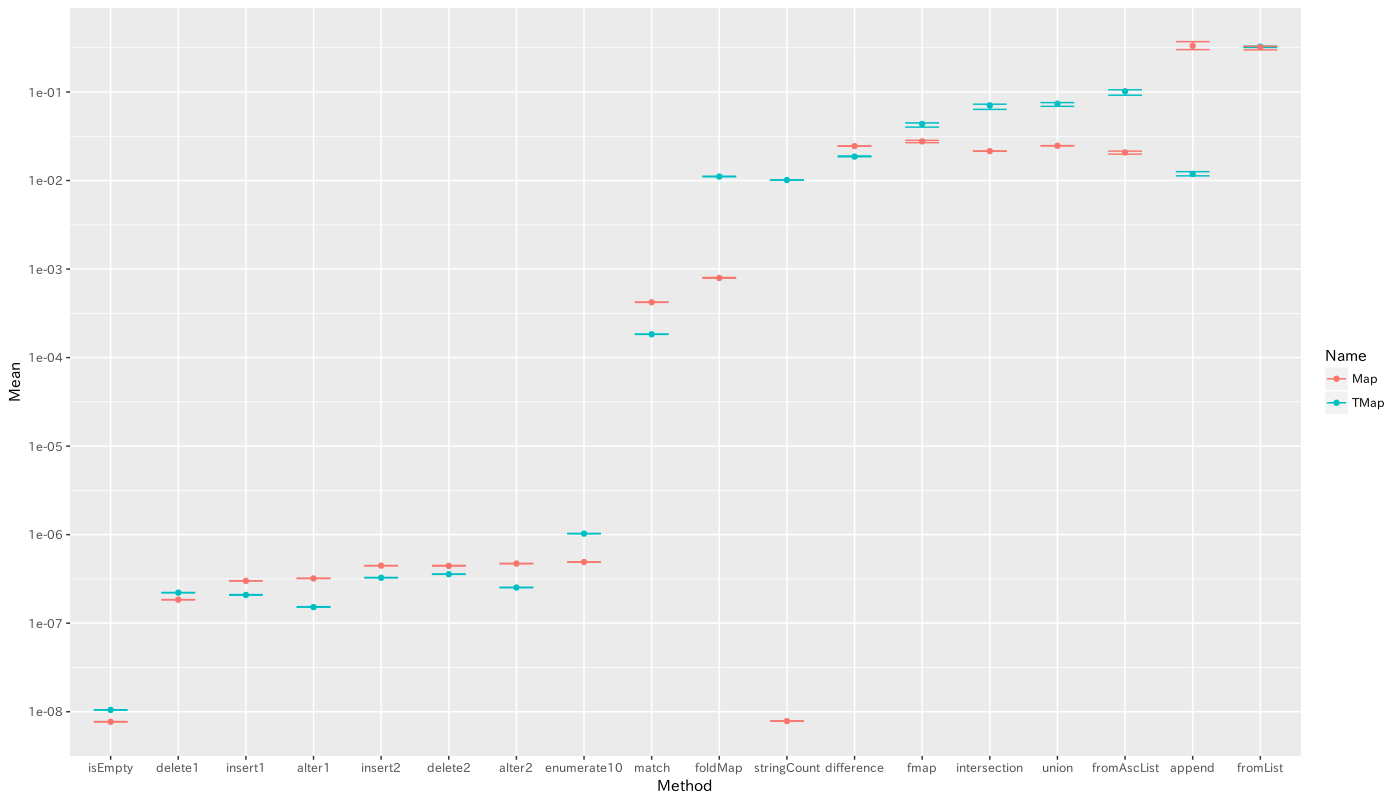
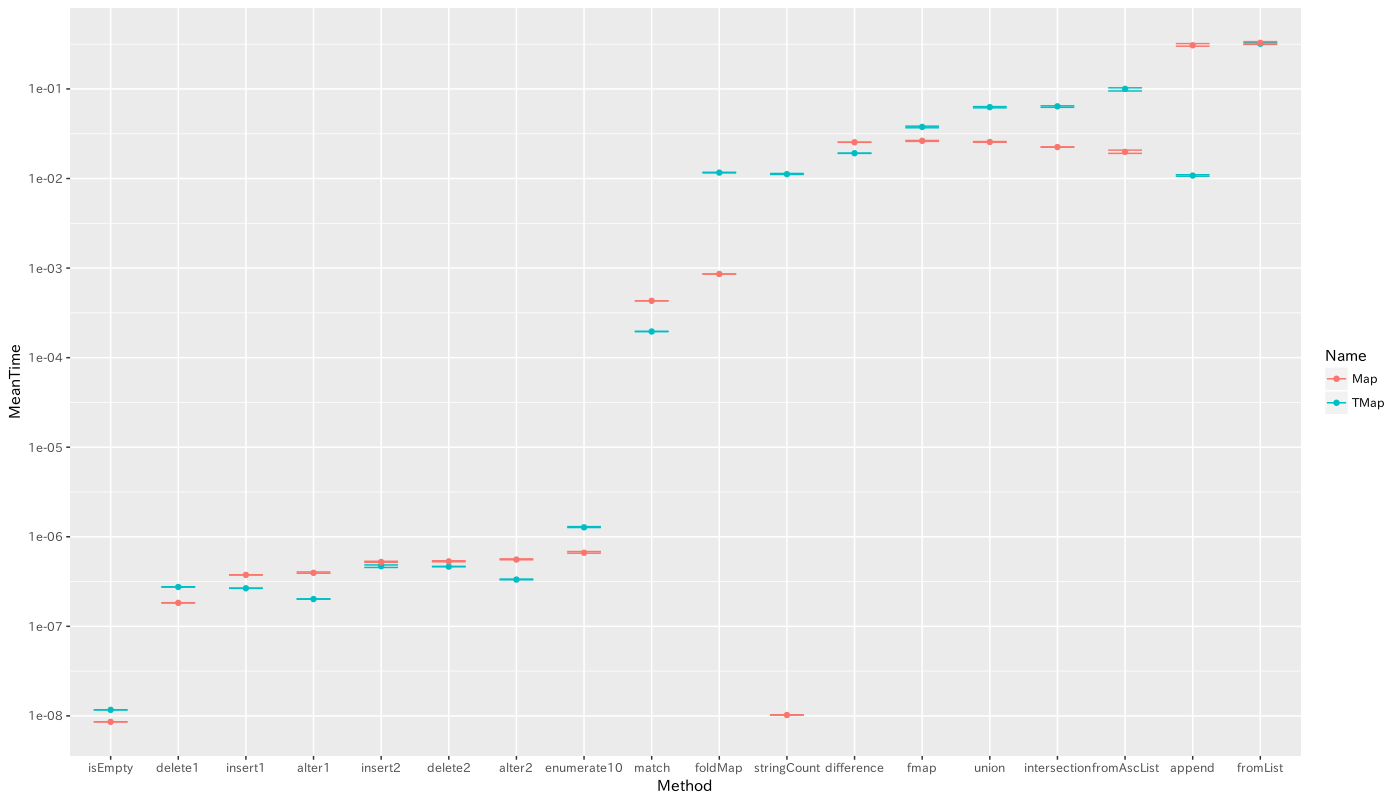
Re-run benchmark; tweak metadata for Hackage.

diff --git a/README.md b/README.md
@@ -16,15 +16,13 @@ Advantages of using this package over `Map` or `Set` are:
   * Can be more memory-efficient (but not always; needs
     benchmark anyway).
 
-[Not uploaded to Hackage yet. Haddock link is here](https://viercc.github.io/haddock/trie-simple/)
-
 ## Benchmarks
 
 Benchmarks compared against plain `Map` and `Set`.
 
-![benchmark chart for TMap](doc/benchTMap.png)
+![benchmark chart for TMap](https://raw.githubusercontent.com/viercc/trie-simple/master/doc/benchTMap.png)
 
-![benchmark chart for TSet](doc/benchTSet.png)
+![benchmark chart for TSet](https://raw.githubusercontent.com/viercc/trie-simple/master/doc/benchTSet.png)
 
 ## About License
 
@@ -32,3 +30,5 @@ Benchmarks compared against plain `Map` and `Set`.
 one file for benchmark input data. See [ABOUT](ABOUT) for that
 file.
 
+If you install `trie-simple` from Hackage, that input data is not
+included in the distributed files.

diff --git a/CHANGELOG.md b/CHANGELOG.md
@@ -1,0 +1,4 @@
+# 0.4.1.1
+
+- Initial release.
+
